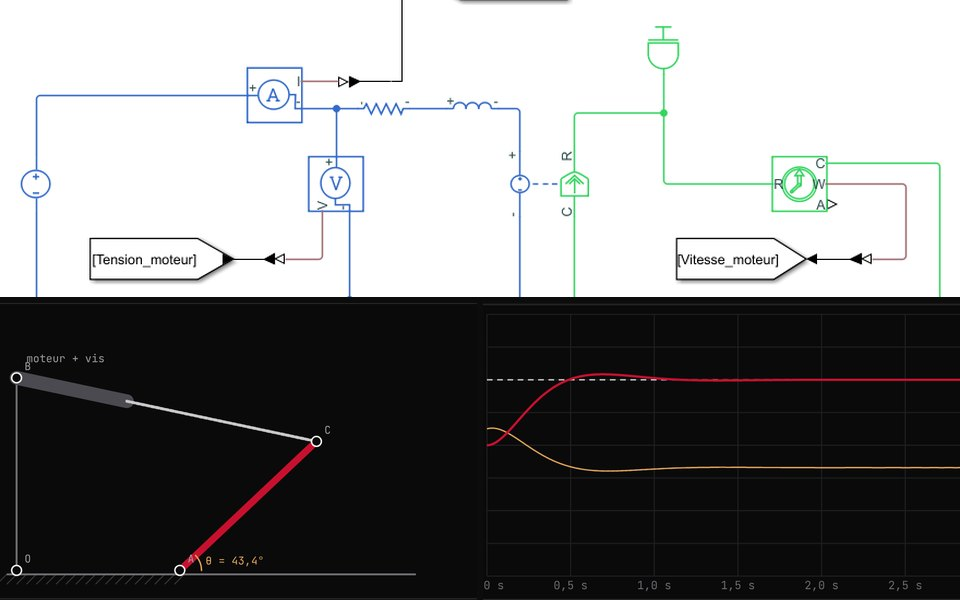
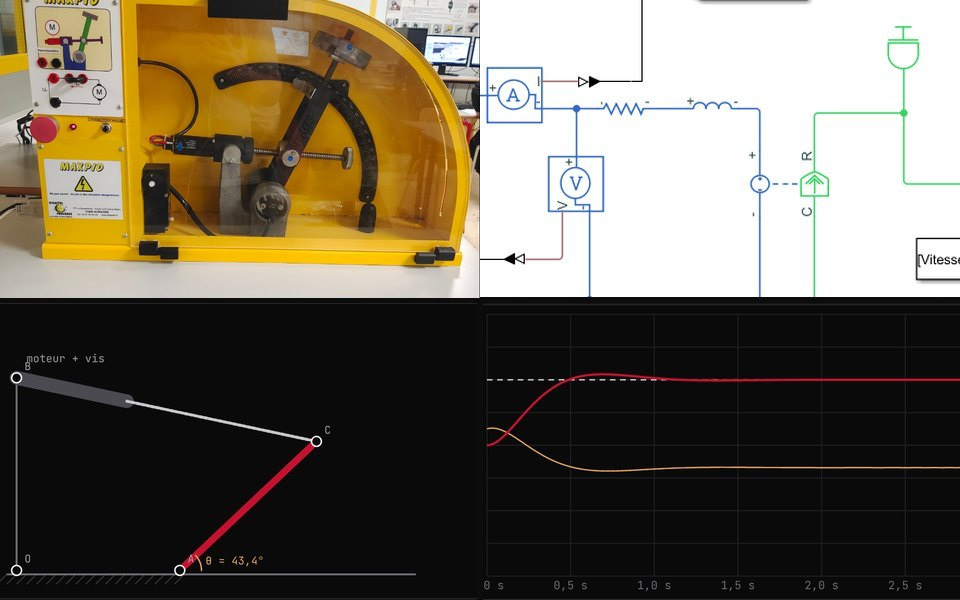
MaxPID : photos du vrai banc dans la démo et sur la carte

diff --git a/demos/maxpid/index.html b/demos/maxpid/index.html
@@ -77,6 +77,10 @@
     .note { font-size: 0.82rem; color: var(--dim); }
     .note p + p { margin-top: 6px; }
     .sec { margin-top: 20px; }
+    .bench { display: grid; grid-template-columns: minmax(0, 1.4fr) minmax(0, 1fr) minmax(0, 1fr); gap: 12px; align-items: start; }
+    .bench img { width: 100%; display: block; border: 1px solid var(--border); border-radius: 6px; }
+    .bench figcaption { font-size: 0.78rem; color: var(--dim); margin-top: 6px; }
+    @media (max-width: 760px) { .bench { grid-template-columns: minmax(0, 1fr); } }
     .two { display: grid; grid-template-columns: minmax(0, 1fr) minmax(0, 1.25fr); gap: 16px; align-items: start; }
     .grid2 { display: grid; grid-template-columns: 280px minmax(0, 1fr); gap: 20px; align-items: start; }
     canvas.mech { width: 100%; height: 300px; display: block; border: 1px solid var(--border); border-radius: 6px; background: #0a0a0b; margin-bottom: 10px; }
@@ -106,6 +110,16 @@
     <h1 data-t="title">MaxPID : modélisation d'un axe asservi</h1>
     <p class="intro" data-t="intro"></p>
     <p class="warnbox" data-t="warn"></p>
+
+    <div class="panel sec">
+      <h2 data-t="benchT">Le vrai banc MaxPID</h2>
+      <div class="bench">
+        <figure><img src="img/banc-face.jpg" alt="Le banc MaxPID au lycée, vu de face : bras, vis, moteur et rapporteur" data-alt="altFace" loading="lazy"><figcaption data-t="capFace">Le banc, vertical : le moteur entraîne la vis, qui fait tourner le bras chargé de masses.</figcaption></figure>
+        <figure><img src="img/banc-dessus.jpg" alt="Le banc MaxPID posé à plat sur la table" data-alt="altTop" loading="lazy"><figcaption data-t="capTop">Le même banc posé à plat : le poids du bras ne joue plus.</figcaption></figure>
+        <figure><img src="img/logiciel-consigne-40.jpg" alt="Logiciel du banc : consigne 40,0°, position mesurée 38,6°" data-alt="altSoft" loading="lazy"><figcaption data-t="capSoft">Le logiciel pendant un essai : consigne 40,0°, position mesurée 38,6°.</figcaption></figure>
+      </div>
+      <p class="hint" data-t="benchHint">Mes photos du banc du lycée (novembre 2024). La démo ci-dessous en reprend la cinématique, le moteur et la boucle fermée.</p>
+    </div>
 
     <div class="panel sec">
       <h2 data-t="s1T">1. Loi entrée-sortie du bras</h2>
@@ -162,6 +176,8 @@
         back: '← Retour au portfolio', eyebrow: "Démo · CPGE TSI, sciences de l'ingénieur (2024)", title: "MaxPID : modélisation d'un axe asservi",
         intro: "Le MaxPID est un bras motorisé : un moteur à courant continu fait tourner une vis, l'écrou pousse le bras. En 2024, j'ai écrit la loi entrée-sortie du mécanisme (fermeture géométrique + vis-écrou) et modélisé le moteur sous Simscape. Cette page rejoue ces deux modèles avec mes valeurs, puis ajoute ce qui manquait : la boucle fermée sur l'angle du bras.",
         warn: "Les longueurs, le pas de la vis et les valeurs du moteur viennent de mon travail de 2024. L'inertie du moteur, la masse et la longueur du bras, le rendement de la vis et le potentiomètre sont des hypothèses de 2026 : la partie 3 est un ajout, pas une mesure du banc.",
+        benchT: 'Le vrai banc MaxPID', capFace: 'Le banc, vertical : le moteur entraîne la vis, qui fait tourner le bras chargé de masses.', capTop: 'Le même banc posé à plat : le poids du bras ne joue plus.', capSoft: 'Le logiciel pendant un essai : consigne 40,0°, position mesurée 38,6°.', benchHint: 'Mes photos du banc du lycée (novembre 2024). La démo ci-dessous en reprend la cinématique, le moteur et la boucle fermée.',
+        altFace: 'Le banc MaxPID au lycée, vu de face : bras, vis, moteur et rapporteur', altTop: 'Le banc MaxPID posé à plat sur la table', altSoft: 'Logiciel du banc : consigne 40,0°, position mesurée 38,6°',
         s1T: '1. Loi entrée-sortie du bras', betaL: 'Rotation de la vis β',
         kTh: 'Angle du bras θ', kX: 'Longueur BC = x', kSlope: 'Pente locale',
         lgExact: 'loi exacte θ(β)', lgRound: 'formule arrondie (tableau du TP)', lgFit: 'droite des moindres carrés', lgExcel: 'ma droite de tableur 2024',
@@ -185,6 +201,8 @@
         back: '← Back to portfolio', eyebrow: 'Demo · CPGE TSI, engineering science (2024)', title: 'MaxPID: modelling a servo axis',
         intro: 'The MaxPID is a motorised arm: a DC motor turns a lead screw and the nut pushes the arm. In 2024 I derived the input-output law of the mechanism (loop closure + screw and nut) and modelled the motor in Simscape. This page replays both models with my values, then adds what was missing: closed-loop control of the arm angle.',
         warn: 'Lengths, screw pitch and motor values come from my 2024 work. Motor inertia, arm mass and length, screw efficiency and the potentiometer are 2026 assumptions: part 3 is an addition, not a measurement of the bench.',
+        benchT: 'The real MaxPID bench', capFace: 'The bench, upright: the motor drives the screw, which turns the arm loaded with masses.', capTop: 'The same bench laid flat: the weight of the arm no longer acts.', capSoft: 'The software during a test: setpoint 40.0°, measured position 38.6°.', benchHint: 'My photos of the school bench (November 2024). The demo below models its kinematics, its motor and the closed loop.',
+        altFace: 'The MaxPID bench at school, front view: arm, screw, motor and protractor', altTop: 'The MaxPID bench laid flat on the table', altSoft: 'Bench software: setpoint 40.0°, measured position 38.6°',
         s1T: '1. Input-output law of the arm', betaL: 'Screw rotation β',
         kTh: 'Arm angle θ', kX: 'Length BC = x', kSlope: 'Local slope',
         lgExact: 'exact law θ(β)', lgRound: 'rounded formula (lab table)', lgFit: 'least-squares line', lgExcel: 'my 2024 spreadsheet line',
@@ -348,6 +366,7 @@
     function setLang(l) {
       lang = l; document.documentElement.lang = l;
       document.querySelectorAll('[data-t]').forEach((el) => { const v = T[l][el.dataset.t]; if (typeof v === 'string') el.textContent = v; });
+      document.querySelectorAll('[data-alt]').forEach((el) => { const v = T[l][el.dataset.alt]; if (typeof v === 'string') el.alt = v; });
       document.querySelectorAll('.lang button').forEach((b) => b.setAttribute('aria-pressed', b.dataset.lang === l));
       try { localStorage.setItem('lang', l); } catch (e) {}
       renderCtl3(); part1(); part2(); part3();

diff --git a/traduction-anglais.js b/traduction-anglais.js
@@ -137,7 +137,7 @@ window.I18N_EN = {
   'p34.date': '2024',
   'p34.title': 'MaxPID: modelling a servo axis (kinematics and motor)',
   'p34.desc': "The MaxPID motorised arm: a DC motor turns a lead screw and the nut pushes the arm. I derived the input-output law by loop closure and screw-nut relation, then modelled the motor in Simscape. Checked in 2026 with Python scripts: the law is not linear (up to 6.4° from the line), the lab table rounds twice, and my 2024 simulation showed a ramp instead of the expected exponential (τm ≈ 97 ms with the datasheet values). The demo replays both models and adds closed-loop control of the arm angle (P and PI).",
-  'p34.img': "Simscape model of the MaxPID DC motor, kinematic diagram of the arm and closed-loop response of the angle",
+  'p34.img': "The school's MaxPID bench, my Simscape model of the DC motor, the kinematic diagram of the arm and the closed-loop angle response",
   'p33.date': 'Apr 2023',
   'p33.title': 'Connected balneotherapy: water temperature control and smartphone monitoring',
   'p33.desc': "Monitoring the water of a balneotherapy pool: a DS18B20 probe measures the temperature, the Arduino drives the heater through a relay and sends the reading over Bluetooth to an App Inventor app. 48 real readings received on the phone. Reviewed in 2026: an unplugged probe reads −127 °C, so the heater stays on; a 20 °C threshold instead of the planned 32 / 36 °C hysteresis; an app that read an integer while the Arduino sends text. The demo replays my 2023 program next to a fixed version, with faults to trigger.",

diff --git a/index.html b/index.html
@@ -354,7 +354,7 @@
           </div>
         </article>
         <article class="project-card project-card--wide" data-tags="automatique mecanique electronique">
-          <div class="card-media"><img src="assets/projets/maxpid-asservissement.jpg" alt="Modèle Simscape du moteur à courant continu du MaxPID, schéma cinématique du bras et réponse de la boucle fermée sur l'angle" data-i18n-attr="alt:p34.img" width="960" height="600" loading="lazy" decoding="async"></div>
+          <div class="card-media"><img src="assets/projets/maxpid-asservissement.jpg" alt="Le banc MaxPID du lycée, mon modèle Simscape du moteur à courant continu, le schéma cinématique du bras et la réponse de la boucle fermée sur l'angle" data-i18n-attr="alt:p34.img" width="960" height="600" loading="lazy" decoding="async"></div>
           <div class="card-top">
             <span class="card-type" data-i18n="tag.control">Automatique</span>
             <span class="card-date" data-i18n="p34.date">2024</span>

diff --git a/FICHE-PROJET.md b/FICHE-PROJET.md
@@ -104,7 +104,7 @@ Images des cartes (nov. 2026, demandé par Valentin pour alléger) : chaque cart
 - [x] Projet 31 (nov. 2026, dernière idée de Valentin, nouvelle bulle « Dispositifs médicaux », clé tag.devices, data-filter « dispositifs », placée après Imagerie médicale) : outils/dispositifs-medicaux/ (index.html + dispositifs.js) = 3 onglets : pousse-seringue (chaîne moteur pas à pas / CC asservi, réducteur, vis, Poiseuille, compliance, jeu, alarme d'occlusion t = C·P/Q → 27 min à 2 mL/h, anti-bolus, fin de seringue, concentration à 1 compartiment, animation), pompe à insuline (patient T1 Bergman, capteur 10 min de retard, impulsions 0,05 U avec report du reste, PID + limite d'insuline active + suspension prédictive, modes manuel / boucle fermée / hybride, 6 scénarios ; le sport montre honnêtement des hypos légères en hybride), hémomixeur (nov. 2026 : enrichi avec les captures du banc de TP de Valentin) : automate 7 états DESSINÉ PAR MOI (E1 hors tension, E2 init, E3 défaut, E4 attente, E5 préparation/tare, E6 prélèvement, E7 fin ; journal), plateau basculé par bielle-manivelle (fermeture |AB| = L par Newton, r réglable → ±14,5° à 10 mm), moteur d'agitation MA (courant = couple ramené, surintensité → défaut), pince motorisée MC, chaîne de pesée S1 conditionneur 1,70 V + 2,65 mV/g / S2 filtre RC 0,8 s / S3 linéarisation, CAN 12 bits 40 Hz, tare ; 5 estimations (brut, RC, moyenne, angle codeur, horizontale) ; défauts injectables (capteur débranché, plateau bloqué, veine bouchée, arrêt opérateur). Valentin a fourni des captures de l'appli Didastel/Hemopharm, un .EASM SolidWorks du fabricant et l'URL du site d'un prof (bloquée par le proxy) : NE RIEN publier de ces sources (pas son travail, droits Didastel), seulement les idées. Valentin a étudié le pousse-seringue et l'hémomixeur en TP de CPGE : c'est dit sur la carte et la page (« refaits de zéro ») ; RIEN repris des sujets. « Pas un dispositif médical » partout. 328 tests. Carte p31 après p30 (scanner), filtres dispositifs + sante + automatique + mecanique + web. Image de carte = composite des 3 animations/graphes. Dépôt PUBLIC pousse-seringue ; modifier les DEUX copies. Grille = 30 cartes (pleine).
 - [x] Projet 32 (nov. 2026, 1er projet du SSD) : Transporteur autonome (1re STI2D, mai 2022, projet de fin d'année ~36 h ; aucune mention de groupe, noms retirés). Dépôt PUBLIC transporteur-autonome publié par la session LOCALE (code 4 étapes, support SolidWorks, schémas, 3 photos du câblage + GIF sans visage, docs/brochage.md, schéma SVG, relecture 2026 en 8 points). DÉMO WEB faite ici, uniquement dans le portfolio : demos/transporteur-autonome/ (index.html + transporteur.js + tests/test.js, 31 tests) = robot vu de dessus, programme 2022 porté ligne à ligne (mêmes broches, seuil 15 cm, delay(150)/delay(5000), messages série) vs version 2026 corrigée (non bloquante, mesure avant de repartir, mesures invalides, LED clignotante, recherche de ligne, roue intérieure à 35 %) ; 2 parcours, 4 scénarios (boîte : le 2022 se rapproche à chaque cycle et touche ; tissu : écho perdu = 0 cm), PWM et pile réglables, broches et moniteur série en direct. Hypothèses de simulation dites sur la page. Carte p32 juste après p26 (bras robotique), filtres robotique + electronique, contexte clé projects.contextSti2d. Image = photo du câblage (sans visage) + capture de la démo. Grille alors à 31 cartes.
 - [x] Projet 33 (nov. 2026, 2e projet du SSD) : Balnéothérapie connectée (Tle STI2D SIN, mars–avril 2023 ; DS18B20 D6, relais D7, Bluetooth D2/D3, App Inventor). Dépôt PUBLIC balneotherapie-connectee publié par la session LOCALE (code 2023, brochage, 48 mesures réelles en CSV, captures appli/terminal, 2 photos sans visage, graphique, relecture 2026 ; appli App Inventor RECRÉÉE en .aia par la session locale et publiée dans app/ (accord de Valentin) ; à sa demande le README ne dit plus qu'elle n'a pas été testée (silence) — mais ne JAMAIS écrire qu'elle a été testée sur le montage ; lien vers la démo en haut du README). « partie température » remplacé : le README présente le système entier. DÉMO WEB ici : demos/balneotherapie/ (index.html + balneo.js + tests/test.js, 22 tests) = 2023 porté ligne à ligne (T ≤ 20 → relais, 10,63 s, println 2 décimales, −127 si sonde débranchée) vs 2026 (hystérésis 32/36 réglable, sonde invalide → coupe + alerte, ≥ 38 °C → alerte), maquette calée sur la pente de la série B (volume 1 L et pertes 0,3 W/K SUPPOSÉS, puissance déduite ≈ 3,3 W ; écart 0,04 °C), bassin 15 m³ illustratif, défauts (sonde, relais collé = alerte mais coupure impossible par logiciel → thermostat matériel, eau froide), téléphone = alertes de l'appli recréée, terminal BT. Carte p33 après p32, filtres electronique + sante + automatique, contexte projects.contextSti2dTle. Grille alors à 32 cartes.
-- [x] Projet 34 (nov. 2026, 3e projet du SSD) : MaxPID (CPGE TSI, janv.–mai 2024 ; aucune mention de groupe ; diapos 1–4 et 10, énoncé, tableau du sujet, photo commerciale EXCLUS). Dépôt PUBLIC maxpid-asservissement publié par la session LOCALE (titre « MaxPID : modélisation d'un axe asservi (cinématique et moteur) » ; schéma cinématique SVG, 4 scans manuscrits vérifiés sans nom/note, courbe tableur, captures Simscape, scripts Python 2026, docs/valeurs.md, section « Vérification en 2026 » sans les mots « erreur »/« faux »). DÉMO WEB ici : demos/maxpid/ (index.html + maxpid.js + tests/test.js, 45 tests) = 1) loi entrée-sortie interactive (exacte vs formule arrondie vs moindres carrés 3,4121·β + 7,32 vs sa droite tableur 3,9088), 2) démarrage du moteur (fiche : 1,26 A, τm 97 ms, J SUPPOSÉE réglable) vs son Simscape 2024 (R ≈ 19 Ω, J ≈ 7·10⁻³, rampe), 3) boucle fermée P/PI sur l'angle = AJOUT 2026 (bras, masse, rendement 0,5, potentiomètre 10 bits SUPPOSÉS ; P → erreur statique avec masse, PI l'annule ; > ~0,25 kg le moteur de la fiche ne tient plus le bras). Carte p34 après p33, filtres automatique + mecanique + electronique, type tag.control, contexte projects.contextTsi. Image = sa capture Simscape + schéma et réponse de la démo. Grille alors à 33 cartes.
+- [x] Projet 34 (nov. 2026, 3e projet du SSD) : MaxPID (CPGE TSI, janv.–mai 2024 ; aucune mention de groupe ; diapos 1–4 et 10, énoncé, tableau du sujet, photo commerciale EXCLUS). Dépôt PUBLIC maxpid-asservissement publié par la session LOCALE (titre « MaxPID : modélisation d'un axe asservi (cinématique et moteur) » ; schéma cinématique SVG, 4 scans manuscrits vérifiés sans nom/note, courbe tableur, captures Simscape, scripts Python 2026, docs/valeurs.md, section « Vérification en 2026 » sans les mots « erreur »/« faux »). DÉMO WEB ici : demos/maxpid/ (index.html + maxpid.js + tests/test.js, 45 tests) = 1) loi entrée-sortie interactive (exacte vs formule arrondie vs moindres carrés 3,4121·β + 7,32 vs sa droite tableur 3,9088), 2) démarrage du moteur (fiche : 1,26 A, τm 97 ms, J SUPPOSÉE réglable) vs son Simscape 2024 (R ≈ 19 Ω, J ≈ 7·10⁻³, rampe), 3) boucle fermée P/PI sur l'angle = AJOUT 2026 (bras, masse, rendement 0,5, potentiomètre 10 bits SUPPOSÉS ; P → erreur statique avec masse, PI l'annule ; > ~0,25 kg le moteur de la fiche ne tient plus le bras). Carte p34 après p33, filtres automatique + mecanique + electronique, type tag.control, contexte projects.contextTsi. Image = sa capture Simscape + schéma et réponse de la démo. Grille alors à 33 cartes. Nov. 2026 : Valentin a fourni ses photos du banc (6 nov. 2024, au lycée) → ajoutées à la DÉMO seulement (panneau « Le vrai banc » : demos/maxpid/img/banc-face.jpg, banc-dessus.jpg, logiciel-consigne-40.jpg = écran du logiciel recadré, consigne 40,0° / position 38,6°) et à l'image de la carte (photo de face à la place de la moitié gauche du Simscape). EXCLUES : photos avec des personnes (dont un visage partiel au bord d'une photo inclinée de 16 h 56), le sujet (capture « Énergétique », initiales des profs) et les écrans où le PDF du sujet est visible. Le dépôt maxpid-asservissement (session LOCALE) n'a PAS été modifié : à lui proposer d'ajouter les 3 mêmes images.
 - [x] Projet 35 (nov. 2026, 4e projet du SSD) : Supervision de cuves d'élevage de truites (Tle STI2D SIN, déc. 2022–mars 2023 ; thermistance Grove A0, ultrason D4, turbidité A1, électrovanne D2 jamais commandée ; interface Processing adaptée d'un exemple AranaCorp — cité). Dépôt PUBLIC supervision-cuves-truites publié par la session LOCALE (.ino TRANSCRIT des captures des diapos, interface .pde avec dessin des cuves à la place de l'illustration téléchargée, maquette 4 cuves, photo de l'écran floutée, schéma SVG, docs/brochage.md, vérification 2026 en 6 points ; aucun nom, ni l'auteur de l'énoncé). DÉMO WEB ici : demos/cuves-truites/ (index.html + truites.js + tests/test.js, 33 tests) = 4 cuves simulées 24 h, 2023 porté fidèlement (cuve 1, formules d'origine, parse Processing values.length > 0) vs 2026 (4 cuves, hauteurs réelles, vanne 80/95 %, alertes 20/24 °C, sonde, écho, turbidité, trames $…*XOR) ; 7 scénarios dont « reconstituer l'écran de ma photo » : écho nul (100 %), analogRead(A1) = 311 donne EXACTEMENT 1783,44, trame sans 1er champ → Temp 100 / Remplissage 1783,44 / Turbidité 0 (diagnostic trouvé ici, vérifié par la session locale — 310 → 1771,99, 312 → 1794,84 — et ajouté au README et au brochage ; lien vers la démo en haut du README). Carte p35 après p34, filtres electronique + data + automatique, contexte projects.contextSti2dTle. Image = photo de son écran 2023 (haut) + écran 2026 de la démo. Grille alors à 34 cartes.
 - [x] Projet 36 (nov. 2026, 5e projet du SSD) : Support de téléphone en découpe laser (1re STI2D, nov. 2021 ; 3 pièces MDF emboîtées : plaque 50 × 90 à 2 tenons, pièce à 3 encoches 80 × 30, cale ajoutée après le 1er essai). Dépôt PUBLIC support-telephone-decoupe-laser publié par la session LOCALE (3 DXF renommés plaque / piece-encoches / cale, plans cotés SVG/PNG redessinés, croquis, 5 captures SolidWorks, maquette carton, 4 photos des pièces découpées ; EXCLUS : l'autre jeu de DXF prêté (plaque en Y, autre conception, prénom d'un camarade), l'énoncé, une image Internet, une photo avec une personne au fond, une avec un reflet de visage ; vérification 2026 : jeu des encoches, trait de coupe, stabilité, masse 13,5–16,6 g pour 15 g, encombrement 90 mm). Pas de démo. Carte p36 après p35, filtre mecanique, contexte projects.contextSti2d1, lien unique « Voir le projet ». Image = photo du support avec le téléphone + assemblage SolidWorks + plan de la plaque. Grille alors à 35 cartes.
 - [x] Projet 37 (nov. 2026, 6e et dernier projet du SSD) : Trajectoire d'un tir de basket à 3 points (CPGE TSI, juin 2024 ; JAMAIS « TIPE », aucune photo/vidéo, pas de numéro de candidat). Dépôt PUBLIC trajectoire-tir-basket publié par la session LOCALE (78 points y(t) numérisés depuis les captures, échelle calée sur g, x(t) non récupérable ; code 2024 recopié des captures ; script de comparaison ; docs/valeurs.md ; Cₓ NON identifiable → 0,47 ; lien démo en haut du README). DÉMO WEB ici : demos/tir-basket/ (index.html + basket.js + tests/test.js, 38 tests) = vue de côté du tir (aucune silhouette), 3 modèles (sans / 2024 k = 4,37·10⁻⁵ / quadratique ½ρCₓS = 0,0136), curseurs v₀, angle, h₀, Cₓ, résultat panier/court/long (marge cercle − ballon 10 cm), vitesse nécessaire et marge ±0,07 m/s, calage vy₀ + instant de lâcher sur les 78 points (≈ 7,0–7,1 m/s, écart ≈ 3 cm), carte angle × vitesse, tableau identique à docs/valeurs.md. Carte p37 après p36, filtres mecanique + data, contexte projects.contextPhys. Grille = 36 cartes (pleine).
